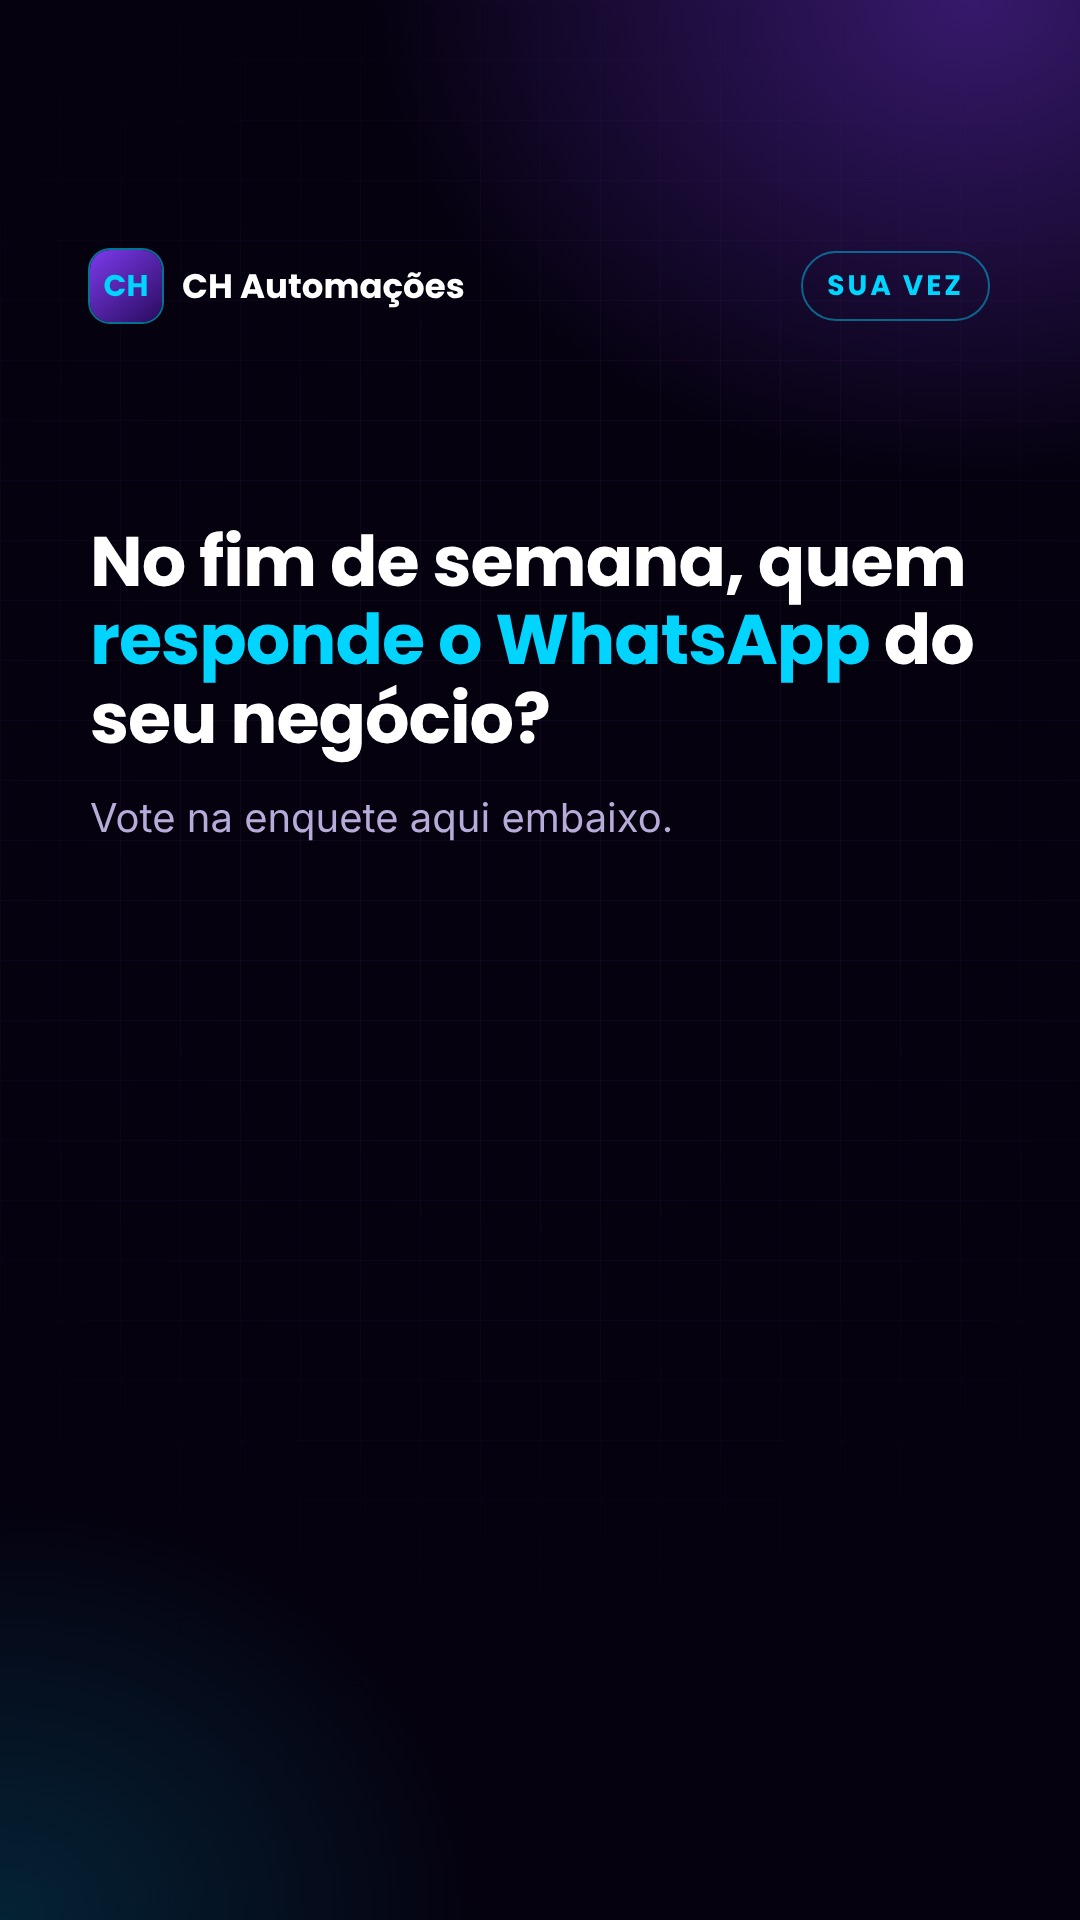
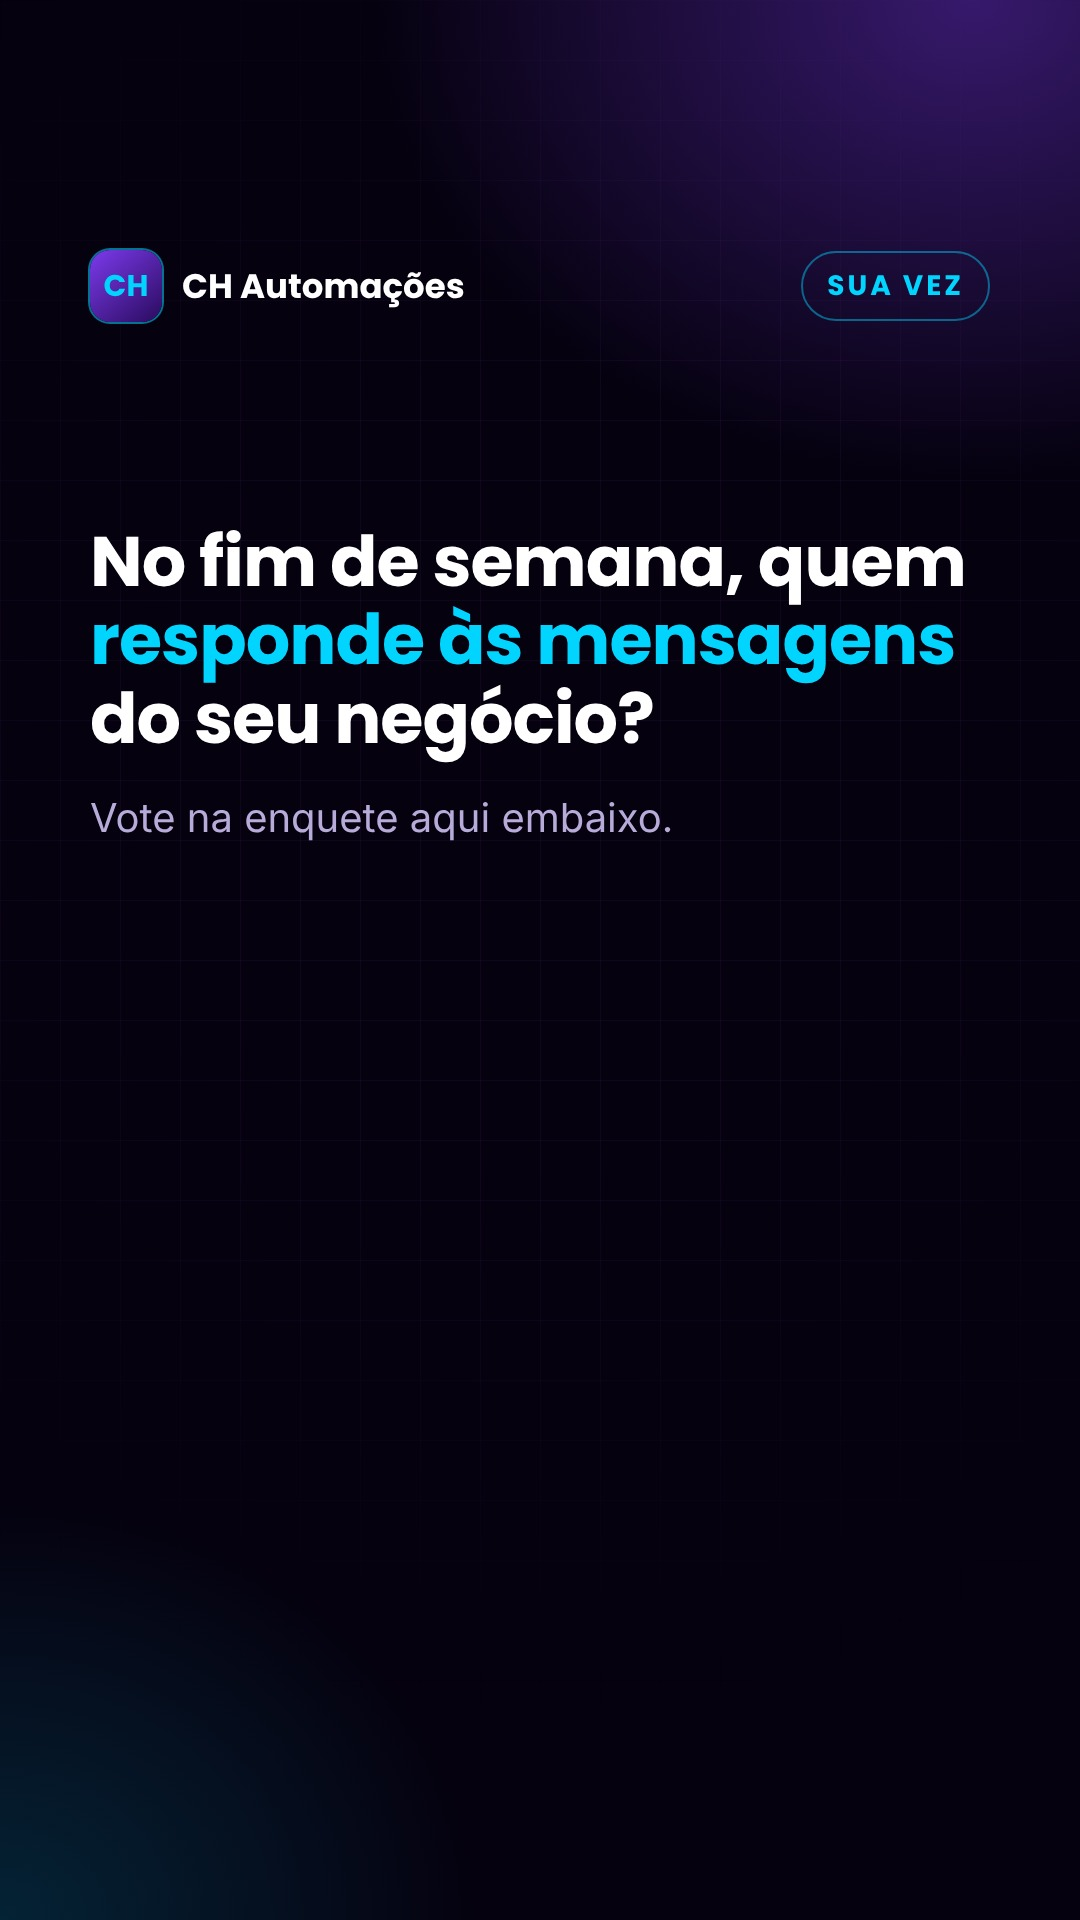
Stories 16/11 revisados

Changed region(s): [[0.0917, 0.3125, 0.9167, 0.4062]]

diff --git a/modelos/stories_2026-11-16.html b/modelos/stories_2026-11-16.html
@@ -64,7 +64,7 @@ const S = {
       <div class="passo"><i>1</i>Mensagem com erro de digitação</div>
       <div class="passo"><i>2</i>Duas perguntas na mesma frase</div>
       <div class="passo"><i>3</i>Cliente que muda de ideia no meio</div></div>
-    <p class="sub">Quer tentar também? <b>Mande “DESAFIO” no direct.</b></p></div>`,
+    <p class="sub">Quer tentar confundir a Thays? <b>Mande “DESAFIO” no direct e eu te mando o teste.</b></p></div>`,
   seg2: `${topo('Sua vez')}<div class="meio">
     <h2>Quanto tempo o seu cliente <em>espera por uma resposta</em> no WhatsApp?</h2>
     <p class="sub">Vote na enquete aqui embaixo.</p>
@@ -72,7 +72,7 @@ const S = {
   // TERÇA 17/11
   ter1: `${topo('Dica rápida')}<div class="meio">
     <h2>Use as <em>etiquetas</em> do WhatsApp Business.</h2>
-    <p class="sub">Elas mostram em que ponto cada conversa parou, sem você precisar rolar a tela.</p>
+    <p class="sub">Elas mostram em que ponto cada conversa parou e deixam você filtrar sem rolar a tela.</p>
     <div class="card"><div class="rot" style="color:var(--ciano)">Comece com estas três</div>
       <div class="passo"><i>1</i>Pediu orçamento</div>
       <div class="passo"><i>2</i>Agendado</div>
@@ -80,15 +80,15 @@ const S = {
     <p class="sub">Quer o passo a passo? <b>Mande “ETIQUETAS” no direct.</b></p></div>`,
   ter2: `${topo('Mito ou verdade')}<div class="meio">
     <h1>“Responder rápido demais <em>parece desespero.</em>”</h1>
-    <div class="card"><div class="rot" style="color:var(--verm)">Mito</div><p>Quem pergunta no WhatsApp está decidindo naquela hora.</p><p>Resposta rápida passa a imagem de um negócio organizado, <b>não de alguém sem cliente.</b></p></div>
+    <div class="card"><div class="rot" style="color:var(--verm)">Mito</div><p>Quem pergunta no WhatsApp, muitas vezes, está decidindo naquela hora.</p><p>Resposta rápida passa a imagem de um negócio organizado, <b>não de alguém sem cliente.</b></p></div>
     <p class="sub">Ouviu outro mito sobre atendimento? <b>Mande “MITO” no direct que eu respondo.</b></p></div>`,
   // QUARTA 18/11
   qua1: `${topo('Antes e depois')}<div class="meio">
     <h2>“Tem horário <em>no sábado?</em>”</h2>
     <div class="card ruim"><div class="rot">Agenda no caderno</div>
       <div class="passo"><i>📖</i>Você confere a agenda entre um cliente e outro</div>
-      <div class="passo"><i>⚠</i>Marca às 10h, que já tinha dono</div></div>
-    <div class="card bom"><div class="rot">Com link de agendamento</div>
+      <div class="passo"><i>⚠</i>Marca às 10h e descobre que o horário já era de outro cliente</div></div>
+    <div class="card bom"><div class="rot">Com o link do Agenda Pro</div>
       <div class="passo"><i>🔗</i>O cliente vê só os horários livres</div>
       <div class="passo"><i>✅</i>Escolhe e já fica na agenda</div></div>
     <div class="cta">Mande “LINK” no direct</div>
@@ -99,41 +99,42 @@ const S = {
       <div class="linha"><span>Pontos acumulados</span><b>8 de 10</b></div>
       <div class="linha"><span>Próximo prêmio</span><b>Hidratação</b></div>
       <div class="linha"><span>Última visita</span><b>02/11</b></div></div>
-    <p class="sub">Sem cartão de papel na carteira: os pontos ficam no sistema <b>e você sabe quem está perto do prêmio.</b></p>
+    <p class="sub">Sem cartão de papel na carteira: os pontos ficam no sistema <b>e você vê quanto falta para cada cliente ganhar o prêmio.</b></p>
     <p class="sub"><b>Mande “FIDELIDADE” no direct.</b></p>
     <p class="nota">Tela ilustrativa. Nomes de exemplo.</p></div>`,
   // QUINTA 19/11
   qui1: `${topo('Faz a conta')}<div class="meio">
-    <h2>Quanto vale um cliente que <em>volta todo mês?</em></h2>
+    <h2>Quanto valem 20 clientes que <em>voltam todo mês?</em></h2>
     <div class="card">
       <div class="linha"><span>Valor de cada visita</span><b>R$ 50</b></div>
       <div class="linha"><span>Visitas no ano</span><b>12</b></div>
+      <div class="linha"><span>Um cliente no ano</span><b>R$ 600</b></div>
       <div class="linha"><span>Clientes fiéis</span><b>20</b></div>
       <div class="linha total"><span>Por ano</span><b>R$ 12.000</b></div></div>
-    <p class="sub">Cuidar de quem já volta vale tanto quanto buscar cliente novo. <b>Faça a sua conta e mande “CONTA” no direct.</b></p>
+    <p class="sub">O CH Intelligence avisa quando um cliente que vinha sempre some. <b>Mande “CONTA” no direct e eu te mostro.</b></p>
     <p class="nota">Valores de exemplo.</p></div>`,
   qui2: `${topo('Sua vez')}<div class="meio">
-    <h2>No fim de semana, quem <em>responde o WhatsApp</em> do seu negócio?</h2>
+    <h2>No fim de semana, quem <em>responde às mensagens</em> do seu negócio?</h2>
     <p class="sub">Vote na enquete aqui embaixo.</p>
     <div style="height:560px"></div></div>`,
   // SEXTA 20/11
-  sex1: `${topo('Atendimento na prática')}<div class="meio">
+  sex1: `${topo('Atendimento na prática')}<div class="meio" style="padding-bottom:70px">
     <div class="chat"><div class="cab"><div class="av">L</div><div>Consultório Dra. Lívia<small>online</small></div></div>
-      <div class="bolha cli">Oi, vocês atendem online? Qual o valor da sessão?<small>21:05</small></div>
-      <div class="bolha th">Oi! Atendemos sim, online e presencial. A sessão é R$&nbsp;150 (50 min). Tenho terça às 19h ou quinta às 8h. Qual prefere?<small>21:05</small></div>
-      <div class="bolha cli">Terça 19h, online<small>21:06</small></div>
-      <div class="bolha th">Marcado, Bruno! Terça às 19h, sessão online com a Dra. Lívia 💙<small>21:06</small></div></div>
+      <div class="bolha cli">Oi, sou o Bruno. Vocês atendem online? Qual o valor da sessão?<small>13:40</small></div>
+      <div class="bolha th">Oi! Atendemos sim, online e presencial. A sessão é R$&nbsp;150 (50 min). A Dra. Lívia tem terça às 19h ou quinta às 8h. Qual prefere?<small>13:40</small></div>
+      <div class="bolha cli">Terça 19h, online<small>13:41</small></div>
+      <div class="bolha th">Marcado, Bruno! Terça às 19h, sessão online com a Dra. Lívia 💙<small>13:41</small></div></div>
     <p class="nota">Conversa ilustrativa. Nomes e valores de exemplo.<br><b style="color:#fff">Tem consultório? Mande “CONSULTÓRIO” no direct.</b></p></div>`,
   sex2: `${topo('Para começar')}<div class="meio">
     <h2>Como começar com a CH <em>em 4 passos.</em></h2>
     <div class="card">
       <div class="passo"><i>1</i>Demonstração gratuita</div>
       <div class="passo"><i>2</i>Você escolhe o plano</div>
-      <div class="passo"><i>3</i>Implantação: a gente configura a Thays para o seu negócio</div>
-      <div class="passo"><i>4</i>Mensalidade só a partir do mês seguinte</div></div>
+      <div class="passo"><i>3</i>Você paga a implantação e a gente configura a Thays para o seu negócio</div>
+      <div class="passo"><i>4</i>A mensalidade só começa no mês seguinte à implantação</div></div>
     <div class="cta">Mande “DEMO” no direct</div></div>`,
   // SÁBADO 21/11
-  sab1: `${topo('CH Intelligence')}<div class="meio">
+  sab1: `${topo('CH Intelligence')}<div class="meio" style="padding-top:20px">
     <h1>Quanto entrou e quanto saiu <em>este mês?</em></h1>
     <div class="card">
       <div class="linha"><span>Entradas</span><b>R$ 8.400</b></div>
@@ -146,7 +147,7 @@ const S = {
   dom1: `${topo('Dica de domingo')}<div class="meio">
     <h1>Seu cliente vê os serviços <em>sem precisar perguntar?</em></h1>
     <p class="sub">O catálogo do WhatsApp Business mostra o que você faz direto no seu perfil. Monte o seu em poucos minutos:</p>
-    <div class="card"><div class="passo"><i>1</i>Um item por serviço</div><div class="passo"><i>2</i>Uma foto real do resultado</div><div class="passo"><i>3</i>Descrição curta e duração</div></div>
+    <div class="card"><div class="passo"><i>1</i>Um item por serviço</div><div class="passo"><i>2</i>Uma foto real do resultado</div><div class="passo"><i>3</i>Descrição curta, duração e preço</div></div>
     <div class="cta">Mande “CATÁLOGO” no direct</div></div>`,
 };
 document.getElementById('raiz').innerHTML = `<section class="story"><div class="grid"></div>${S[id]}</section>`;
